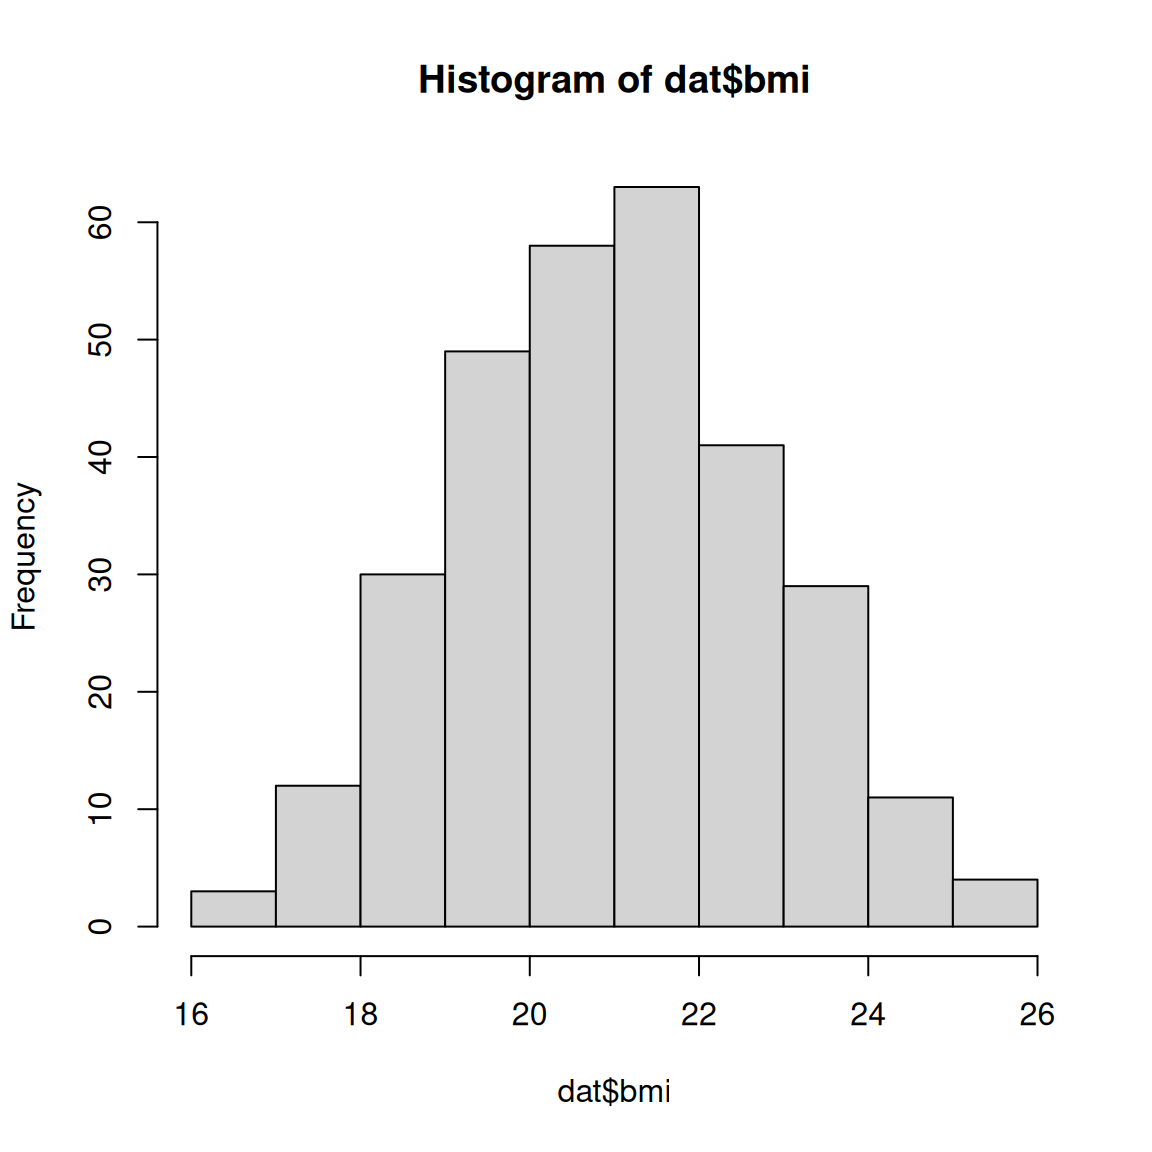
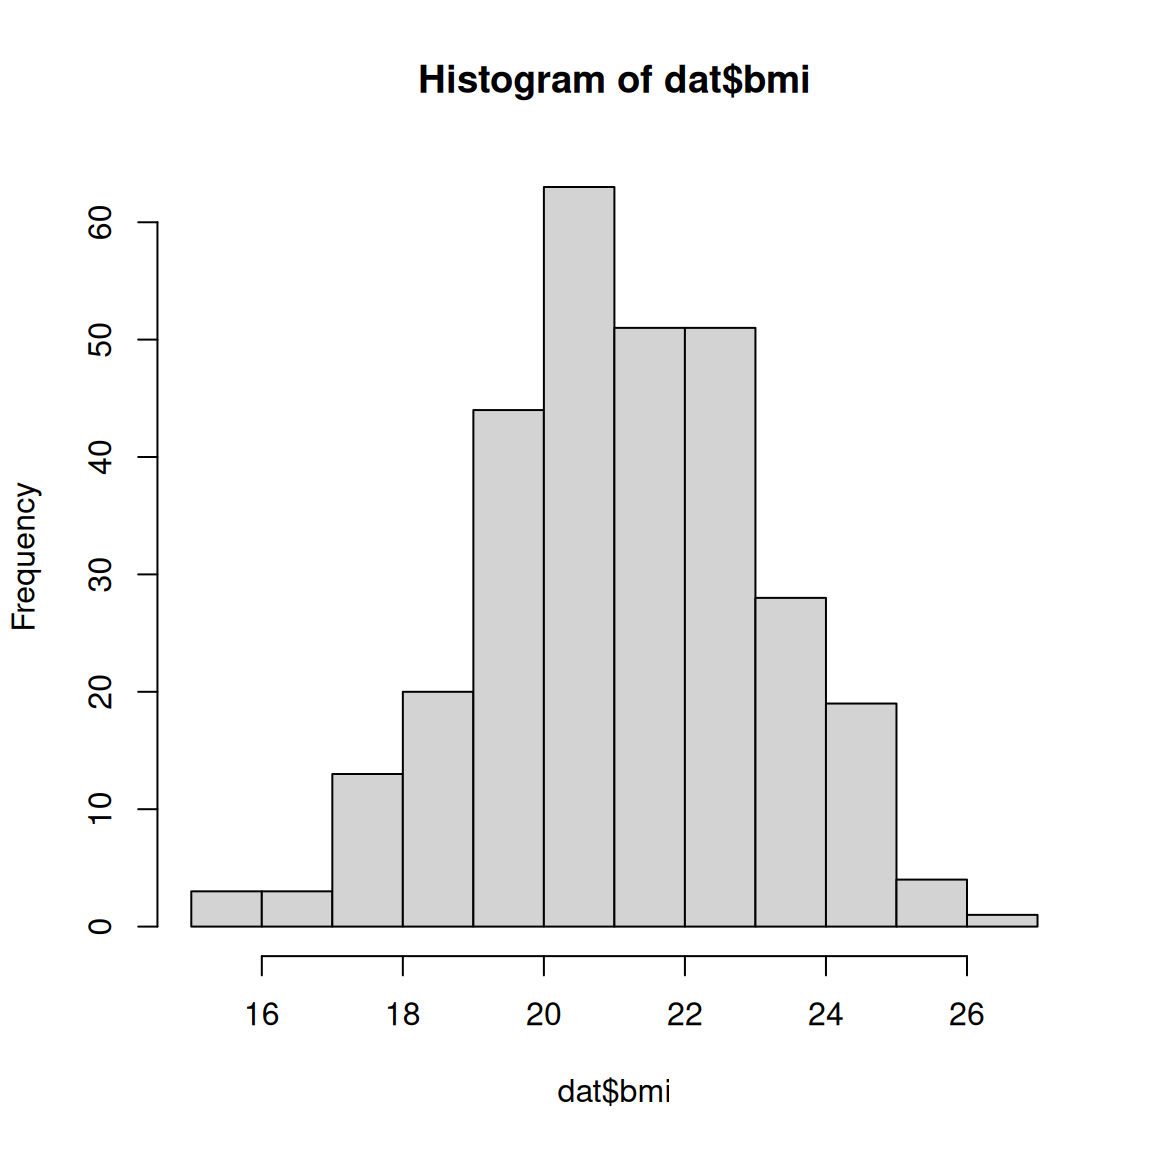
Update rendered slides

diff --git a/docs/statistics/bootstrap/index.html b/docs/statistics/bootstrap/index.html
@@ -199,43 +199,43 @@ Nozomi Niimi
 <tbody>
 <tr class="odd">
 <td style="text-align: right;">1</td>
-<td style="text-align: right;">20.42646</td>
+<td style="text-align: right;">23.09574</td>
 </tr>
 <tr class="even">
 <td style="text-align: right;">2</td>
-<td style="text-align: right;">20.45764</td>
+<td style="text-align: right;">19.81764</td>
 </tr>
 <tr class="odd">
 <td style="text-align: right;">3</td>
-<td style="text-align: right;">21.72174</td>
+<td style="text-align: right;">18.74316</td>
 </tr>
 <tr class="even">
 <td style="text-align: right;">4</td>
-<td style="text-align: right;">18.68619</td>
+<td style="text-align: right;">22.57989</td>
 </tr>
 <tr class="odd">
 <td style="text-align: right;">5</td>
-<td style="text-align: right;">19.84431</td>
+<td style="text-align: right;">22.03911</td>
 </tr>
 <tr class="even">
 <td style="text-align: right;">6</td>
-<td style="text-align: right;">20.19427</td>
+<td style="text-align: right;">16.77449</td>
 </tr>
 <tr class="odd">
 <td style="text-align: right;">7</td>
-<td style="text-align: right;">21.99847</td>
+<td style="text-align: right;">22.08423</td>
 </tr>
 <tr class="even">
 <td style="text-align: right;">8</td>
-<td style="text-align: right;">22.76737</td>
+<td style="text-align: right;">19.24874</td>
 </tr>
 <tr class="odd">
 <td style="text-align: right;">9</td>
-<td style="text-align: right;">24.41641</td>
+<td style="text-align: right;">18.48046</td>
 </tr>
 <tr class="even">
 <td style="text-align: right;">10</td>
-<td style="text-align: right;">21.89521</td>
+<td style="text-align: right;">22.59552</td>
 </tr>
 </tbody>
 </table>
@@ -331,20 +331,20 @@ Nozomi Niimi
 <tbody>
 <tr class="odd">
 <td style="text-align: right;">1</td>
-<td style="text-align: right;">74.02973</td>
-<td style="text-align: right;">204.9046</td>
+<td style="text-align: right;">72.62406</td>
+<td style="text-align: right;">176.2489</td>
 <td style="text-align: left;"></td>
 </tr>
 <tr class="even">
 <td style="text-align: right;">2</td>
-<td style="text-align: right;">77.14139</td>
-<td style="text-align: right;">185.9594</td>
+<td style="text-align: right;">72.52735</td>
+<td style="text-align: right;">208.6379</td>
 <td style="text-align: left;"></td>
 </tr>
 <tr class="odd">
 <td style="text-align: right;">3</td>
-<td style="text-align: right;">76.69638</td>
-<td style="text-align: right;">200.3147</td>
+<td style="text-align: right;">78.47194</td>
+<td style="text-align: right;">195.9158</td>
 <td style="text-align: left;"></td>
 </tr>
 <tr class="even">
